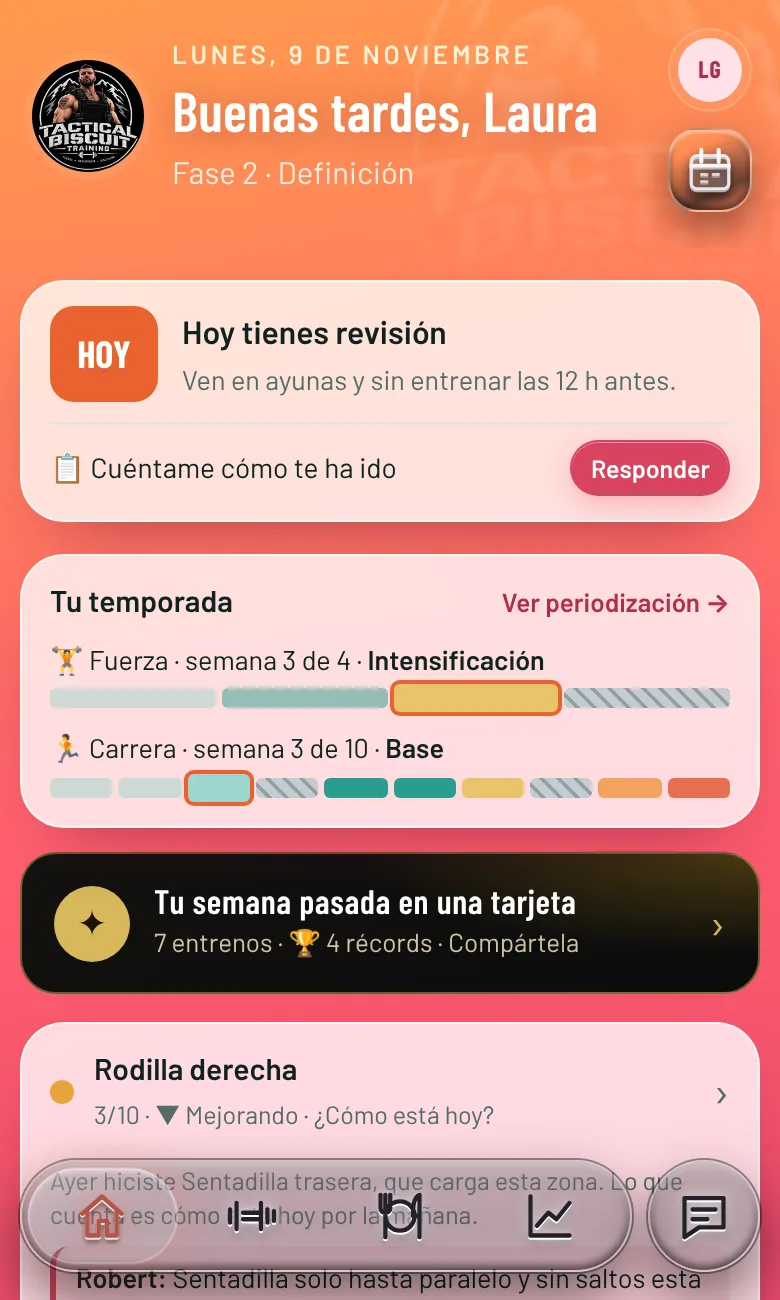
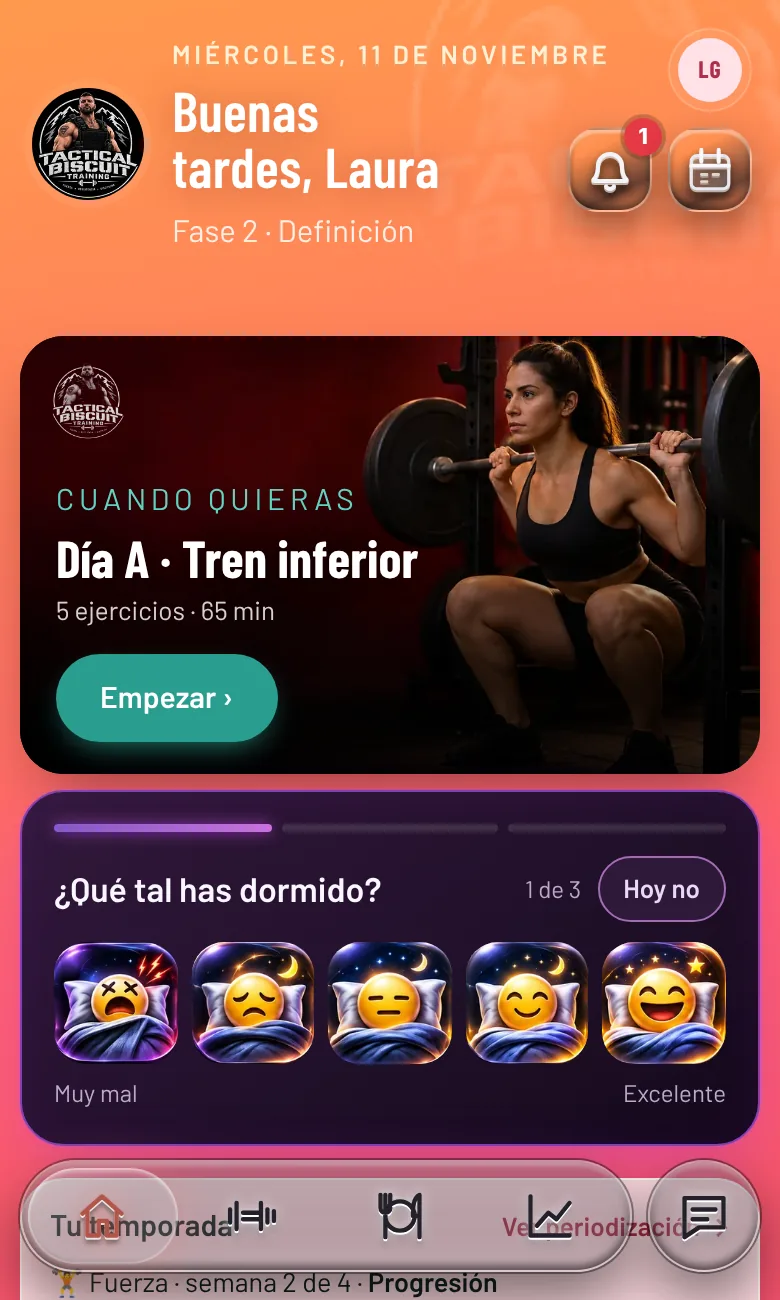
Capturas de la app al día (11 nov): pantalla completa, ¿Cómo estás hoy?, Entreno compacto
Claude-Session: https://claude.ai/code/session_01XqDZy5YPrULfrRGKWvwdz6

diff --git a/index.html b/index.html
@@ -417,9 +417,9 @@ html.intro, html.intro body { overflow: hidden; }
       </div>
       <div>
       <div class="phones rv" aria-label="Capturas de la app Team Biscuit">
-        <div class="phone"><img src="img/app-home.webp?v=6" alt="Pantalla de inicio de la app (cliente de ejemplo)" width="390" height="650"></div>
-        <div class="phone"><img src="img/app-ent.webp?v=6" alt="Pantalla de entrenamiento" width="390" height="650"></div>
-        <div class="phone"><img src="img/app-diet.webp?v=6" alt="Pantalla de dieta" width="390" height="650"></div>
+        <div class="phone"><img src="img/app-home.webp?v=7" alt="Pantalla de inicio de la app (cliente de ejemplo)" width="390" height="650"></div>
+        <div class="phone"><img src="img/app-ent.webp?v=7" alt="Pantalla de entrenamiento" width="390" height="650"></div>
+        <div class="phone"><img src="img/app-diet.webp?v=7" alt="Pantalla de dieta" width="390" height="650"></div>
       </div>
       <p class="swipe-hint" aria-hidden="true">Desliza para ver más →</p>
       </div>
@@ -431,12 +431,12 @@ html.intro, html.intro body { overflow: hidden; }
       </div>
       <div class="rv">
         <div class="shots" aria-label="Más capturas de la app">
-          <figure class="shot"><div class="phone"><img src="img/app-nivel.webp?v=6" alt="Mis recompensas de una clienta de ejemplo" width="390" height="650" loading="lazy"></div><figcaption><b>Mis recompensas</b>: tu nivel y las taquillas que abres entrenando.</figcaption></figure>
-          <figure class="shot"><div class="phone"><img src="img/app-logros.webp?v=6" alt="Vitrina de logros" width="390" height="650" loading="lazy"></div><figcaption><b>Logros y medallas</b> por constancia, fuerza y carrera.</figcaption></figure>
-          <figure class="shot"><div class="phone"><img src="img/app-medalla.webp?v=6" alt="Medalla de 5 km" width="390" height="650" loading="lazy"></div><figcaption><b>Cada medalla</b> con su propia escena.</figcaption></figure>
-          <figure class="shot"><div class="phone"><img src="img/app-semana.webp?v=6" alt="Tarjeta «Mi semana»" width="390" height="650" loading="lazy"></div><figcaption><b>Mi semana</b> en una tarjeta para compartir.</figcaption></figure>
-          <figure class="shot"><div class="phone"><img src="img/app-temporizador.webp?v=6" alt="Temporizador de descanso" width="390" height="650" loading="lazy"></div><figcaption><b>Descanso cronometrado</b>, con tu siguiente serie.</figcaption></figure>
-          <figure class="shot"><div class="phone"><img src="img/app-molestias.webp?v=6" alt="Mapa de molestias" width="390" height="650" loading="lazy"></div><figcaption><b>Molestias</b>: marcas la zona y lo veo al momento.</figcaption></figure>
+          <figure class="shot"><div class="phone"><img src="img/app-nivel.webp?v=7" alt="Mis recompensas de una clienta de ejemplo" width="390" height="650" loading="lazy"></div><figcaption><b>Mis recompensas</b>: tu nivel y las taquillas que abres entrenando.</figcaption></figure>
+          <figure class="shot"><div class="phone"><img src="img/app-logros.webp?v=7" alt="Vitrina de logros" width="390" height="650" loading="lazy"></div><figcaption><b>Logros y medallas</b> por constancia, fuerza y carrera.</figcaption></figure>
+          <figure class="shot"><div class="phone"><img src="img/app-comoestas.webp?v=7" alt="Tarjeta «¿Cómo estás hoy?»" width="390" height="650" loading="lazy"></div><figcaption><b>¿Cómo estás hoy?</b> Sueño, energía y agujetas en tres toques.</figcaption></figure>
+          <figure class="shot"><div class="phone"><img src="img/app-semana.webp?v=7" alt="Tarjeta «Mi semana»" width="390" height="650" loading="lazy"></div><figcaption><b>Mi semana</b> en una tarjeta para compartir.</figcaption></figure>
+          <figure class="shot"><div class="phone"><img src="img/app-temporizador.webp?v=7" alt="Temporizador de descanso" width="390" height="650" loading="lazy"></div><figcaption><b>Descanso cronometrado</b>, con tu siguiente serie.</figcaption></figure>
+          <figure class="shot"><div class="phone"><img src="img/app-molestias.webp?v=7" alt="Mapa de molestias" width="390" height="650" loading="lazy"></div><figcaption><b>Molestias</b>: marcas la zona y lo veo al momento.</figcaption></figure>
         </div>
         <p class="swipe-hint" aria-hidden="true">Desliza para ver más →</p>
       </div>

diff --git a/en/index.html b/en/index.html
@@ -418,9 +418,9 @@ html.intro, html.intro body { overflow: hidden; }
       </div>
       <div>
       <div class="phones rv" aria-label="Team Biscuit app screenshots">
-        <div class="phone"><img src="../img/app-home.webp?v=6" alt="App home screen (sample client)" width="390" height="650"></div>
-        <div class="phone"><img src="../img/app-ent.webp?v=6" alt="Training screen" width="390" height="650"></div>
-        <div class="phone"><img src="../img/app-diet.webp?v=6" alt="Diet screen" width="390" height="650"></div>
+        <div class="phone"><img src="../img/app-home.webp?v=7" alt="App home screen (sample client)" width="390" height="650"></div>
+        <div class="phone"><img src="../img/app-ent.webp?v=7" alt="Training screen" width="390" height="650"></div>
+        <div class="phone"><img src="../img/app-diet.webp?v=7" alt="Diet screen" width="390" height="650"></div>
       </div>
       <p class="swipe-hint" aria-hidden="true">Swipe to see more →</p>
       </div>
@@ -432,12 +432,12 @@ html.intro, html.intro body { overflow: hidden; }
       </div>
       <div class="rv">
         <div class="shots" aria-label="More app screenshots">
-          <figure class="shot"><div class="phone"><img src="../img/app-nivel.webp?v=6" alt="Rewards screen of a sample client" width="390" height="650" loading="lazy"></div><figcaption><b>My rewards</b>: your level and the lockers you unlock by training.</figcaption></figure>
-          <figure class="shot"><div class="phone"><img src="../img/app-logros.webp?v=6" alt="Achievements showcase" width="390" height="650" loading="lazy"></div><figcaption><b>Achievements and medals</b> for consistency, strength and running.</figcaption></figure>
-          <figure class="shot"><div class="phone"><img src="../img/app-medalla.webp?v=6" alt="5K medal" width="390" height="650" loading="lazy"></div><figcaption><b>Every medal</b> with its own scene.</figcaption></figure>
-          <figure class="shot"><div class="phone"><img src="../img/app-semana.webp?v=6" alt="“My week” card" width="390" height="650" loading="lazy"></div><figcaption><b>My week</b> on a card to share.</figcaption></figure>
-          <figure class="shot"><div class="phone"><img src="../img/app-temporizador.webp?v=6" alt="Rest timer" width="390" height="650" loading="lazy"></div><figcaption><b>Timed rest</b>, showing your next set.</figcaption></figure>
-          <figure class="shot"><div class="phone"><img src="../img/app-molestias.webp?v=6" alt="Aches and pains map" width="390" height="650" loading="lazy"></div><figcaption><b>Aches and pains</b>: mark the spot and I see it right away.</figcaption></figure>
+          <figure class="shot"><div class="phone"><img src="../img/app-nivel.webp?v=7" alt="Rewards screen of a sample client" width="390" height="650" loading="lazy"></div><figcaption><b>My rewards</b>: your level and the lockers you unlock by training.</figcaption></figure>
+          <figure class="shot"><div class="phone"><img src="../img/app-logros.webp?v=7" alt="Achievements showcase" width="390" height="650" loading="lazy"></div><figcaption><b>Achievements and medals</b> for consistency, strength and running.</figcaption></figure>
+          <figure class="shot"><div class="phone"><img src="../img/app-comoestas.webp?v=7" alt="«How are you today?» card" width="390" height="650" loading="lazy"></div><figcaption><b>How are you today?</b> Sleep, energy and soreness in three taps.</figcaption></figure>
+          <figure class="shot"><div class="phone"><img src="../img/app-semana.webp?v=7" alt="“My week” card" width="390" height="650" loading="lazy"></div><figcaption><b>My week</b> on a card to share.</figcaption></figure>
+          <figure class="shot"><div class="phone"><img src="../img/app-temporizador.webp?v=7" alt="Rest timer" width="390" height="650" loading="lazy"></div><figcaption><b>Timed rest</b>, showing your next set.</figcaption></figure>
+          <figure class="shot"><div class="phone"><img src="../img/app-molestias.webp?v=7" alt="Aches and pains map" width="390" height="650" loading="lazy"></div><figcaption><b>Aches and pains</b>: mark the spot and I see it right away.</figcaption></figure>
         </div>
         <p class="swipe-hint" aria-hidden="true">Swipe to see more →</p>
       </div>
